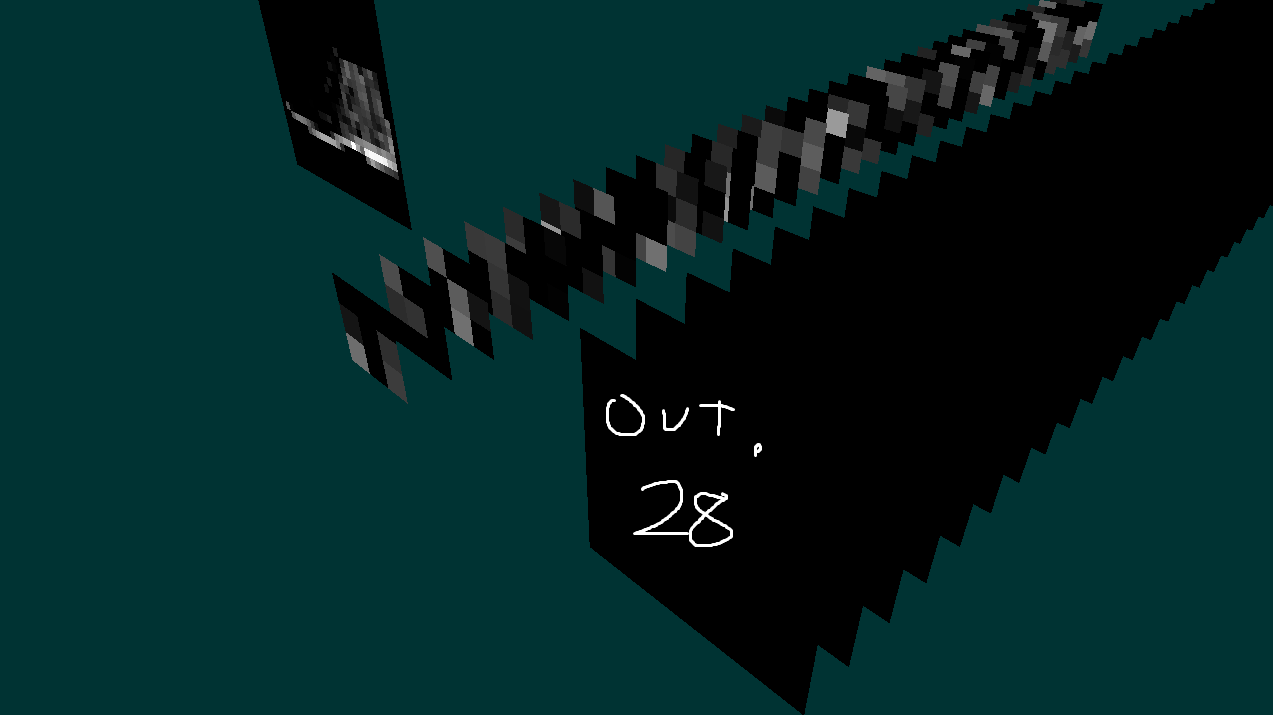
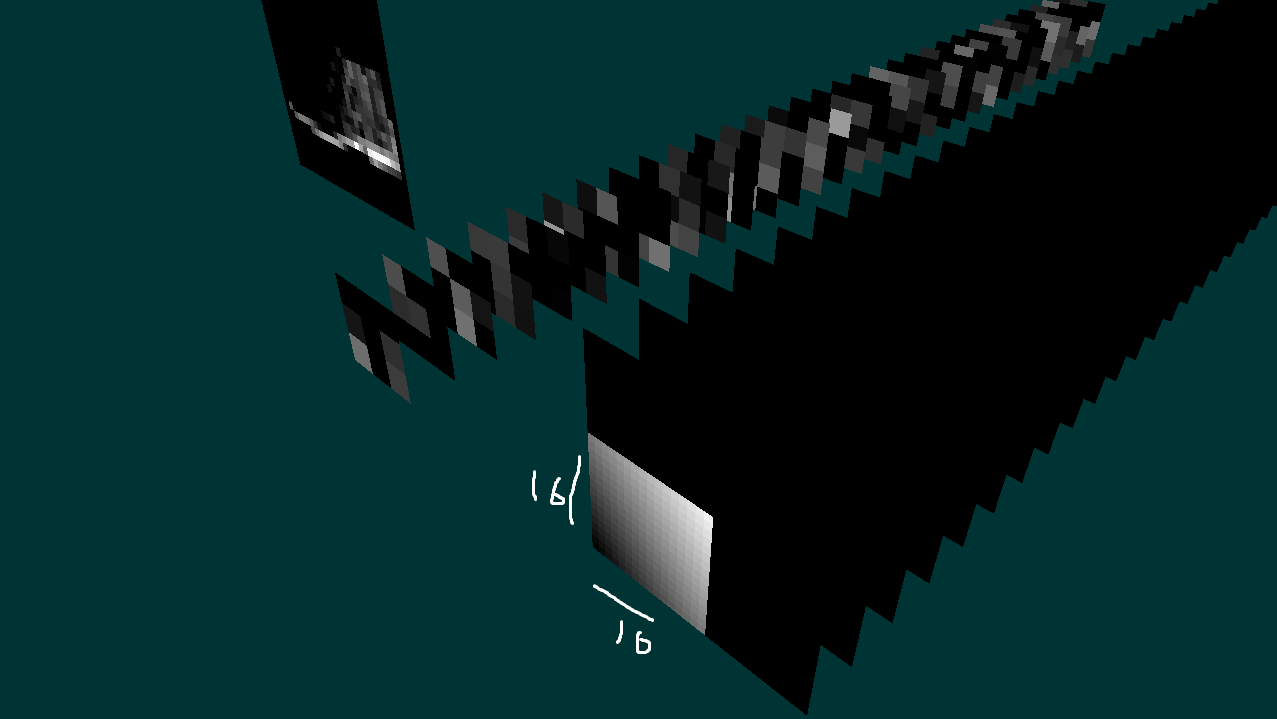
compute_tex2arr
now, x,y 2ch id is working.
16x16 = 256.
lucky to RPi4 has wgsize = 256,0,0.

diff --git a/cpb.py b/cpb.py
@@ -36,6 +36,7 @@ if platform.system() == "Linux":
         #it works!
         glTexStorage2D = _gl.glTexStorage2D
         glTexStorage3D = _gl.glTexStorage3D
+        glBindImageTexture = _gl.glBindImageTexture
         
         
         # glGetUniformLocation = _gl.glGetUniformLocation
@@ -89,6 +90,7 @@ window = pyglet.window.Window(config=config)
 #check the GL functions
 #glPointSize not working in rpi
 print('glDispatchCompute',bool(glDispatchCompute))
+print('glBindImageTexture',bool(glBindImageTexture))
 print('glProgramUniformMatrix4fv',bool(glProgramUniformMatrix4fv))
 print("GL_MAX_COMPUTE_SHARED_MEMORY_SIZE", glGetIntegerv(GL_MAX_COMPUTE_SHARED_MEMORY_SIZE))#32kbrpi
 print("GL_MAX_COMPUTE_WORK_GROUP_SIZE", glGetIntegeri_v(GL_MAX_COMPUTE_WORK_GROUP_SIZE,0))#256rpi
@@ -230,11 +232,14 @@ class TextureArray:
         glTexParameteri(GL_TEXTURE_2D_ARRAY, GL_TEXTURE_MAG_FILTER, GL_NEAREST)
         self.ID = texture
         self.layer_count = layer_count
+        # self.format = GL_R32F
 
     def bind(self):
         glActiveTexture(GL_TEXTURE0)
         glBindTexture(GL_TEXTURE_2D_ARRAY, self.ID)
-
+    def bind_compute(self):
+        glBindImageTexture(0, self.ID, 0, GL_TRUE, 0, GL_READ_WRITE, GL_R32F)
+        #GL_TRUE for layered→ array all layers..?
 
 
 
@@ -590,6 +595,10 @@ sha_point.set_uniform4x4("ProjectionView", projection_view)
 sha_rect.set_uniform4x4("ProjectionView", projection_view)
 
 
+
+
+
+
 # Input channel (RGB, 3)
 # Output channel = feature map / filter count.
 # feature depth/feature dimension
@@ -627,6 +636,28 @@ class Conv2d:
             self.tex_outputs.append(tex_arr)
 
 
+compute_src_conv2d ="""
+#version 310 es
+precision highp float;
+precision highp sampler2DArray;
+precision highp image2DArray;
+
+uniform float dt;
+
+layout(local_size_x = 16, local_size_y = 16) in;
+//layout(local_size_x = 16, local_size_y = 16, local_size_z = 1) in;
+
+layout(r32f, binding = 0) uniform writeonly image2DArray img;
+
+void main() {
+    ivec3 coord = ivec3(gl_GlobalInvocationID.xy, 0); // layer=0
+    float val = float(gl_GlobalInvocationID.x)/32.0 + float(gl_GlobalInvocationID.y)/32.0;
+    imageStore(img, coord, vec4(val, 0.0, 0.0, 0.0)); // R
+}
+"""
+compute_conv2d = ComputeShader(compute_src_conv2d)
+# compute_conv2d.set_uniform("dt",0.1)
+
 
 
 
@@ -650,7 +681,8 @@ conv1_weight = data['conv1_weight']
 
 conv2d = Conv2d(conv1_weight, outsize=28)
 
-
+conv2d.tex_outputs[0].bind_compute()
+compute_conv2d.dispatch(1)
 
 test_data = np.load("fmnist_test_normalized.npz")
 imgs = test_data["images"]        # (N,1,28,28)
@@ -668,6 +700,7 @@ XY = 7
 npimgs = [np.random.rand(XY*XY).reshape(XY,XY).astype(np.float32) for i in range(4)]
 npimgs = [imgs[0].reshape(28,28)]
 tex_arr2 = TextureArray(npimgs)
+
 
 
 
